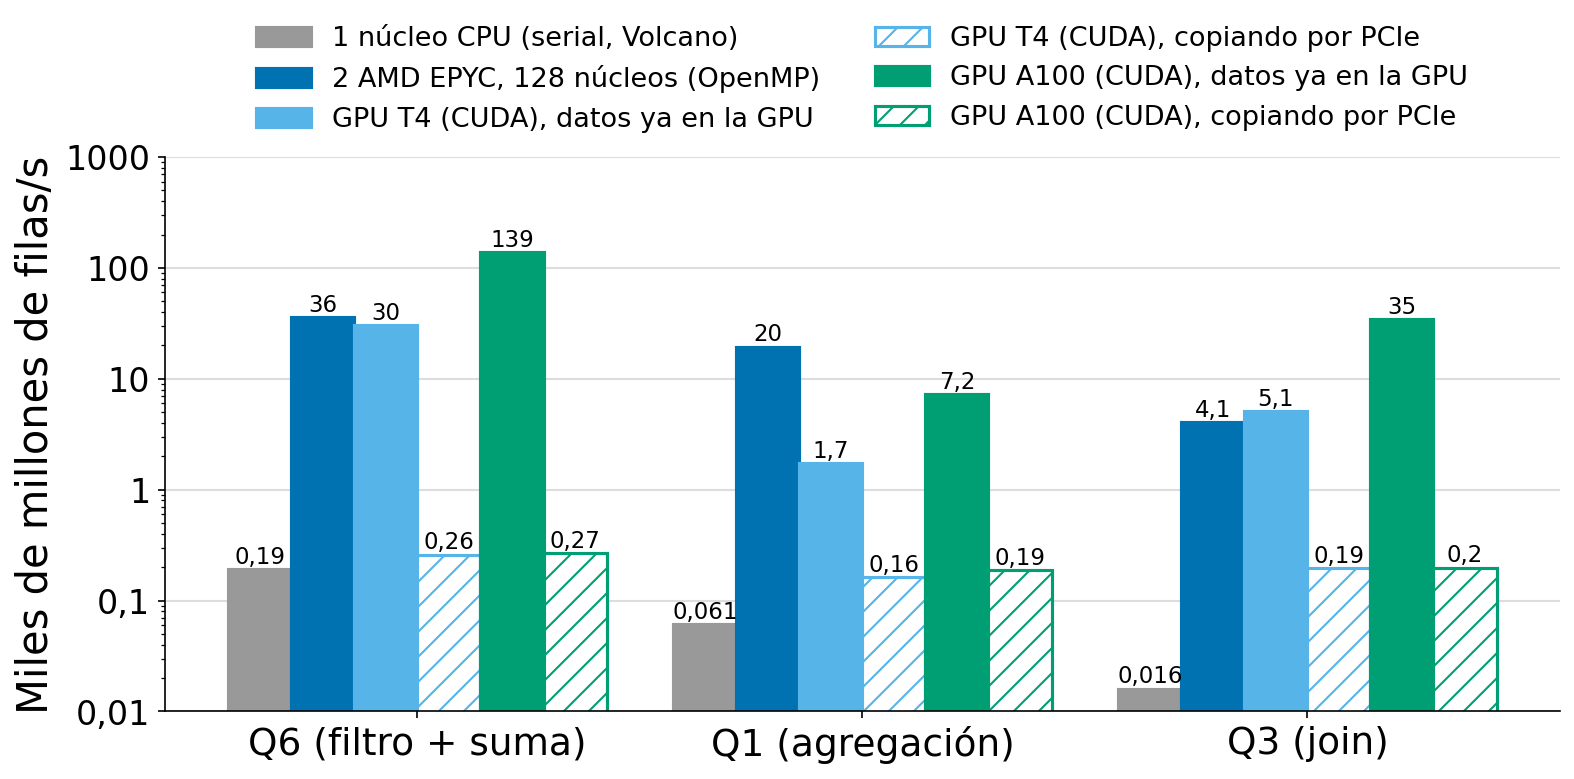
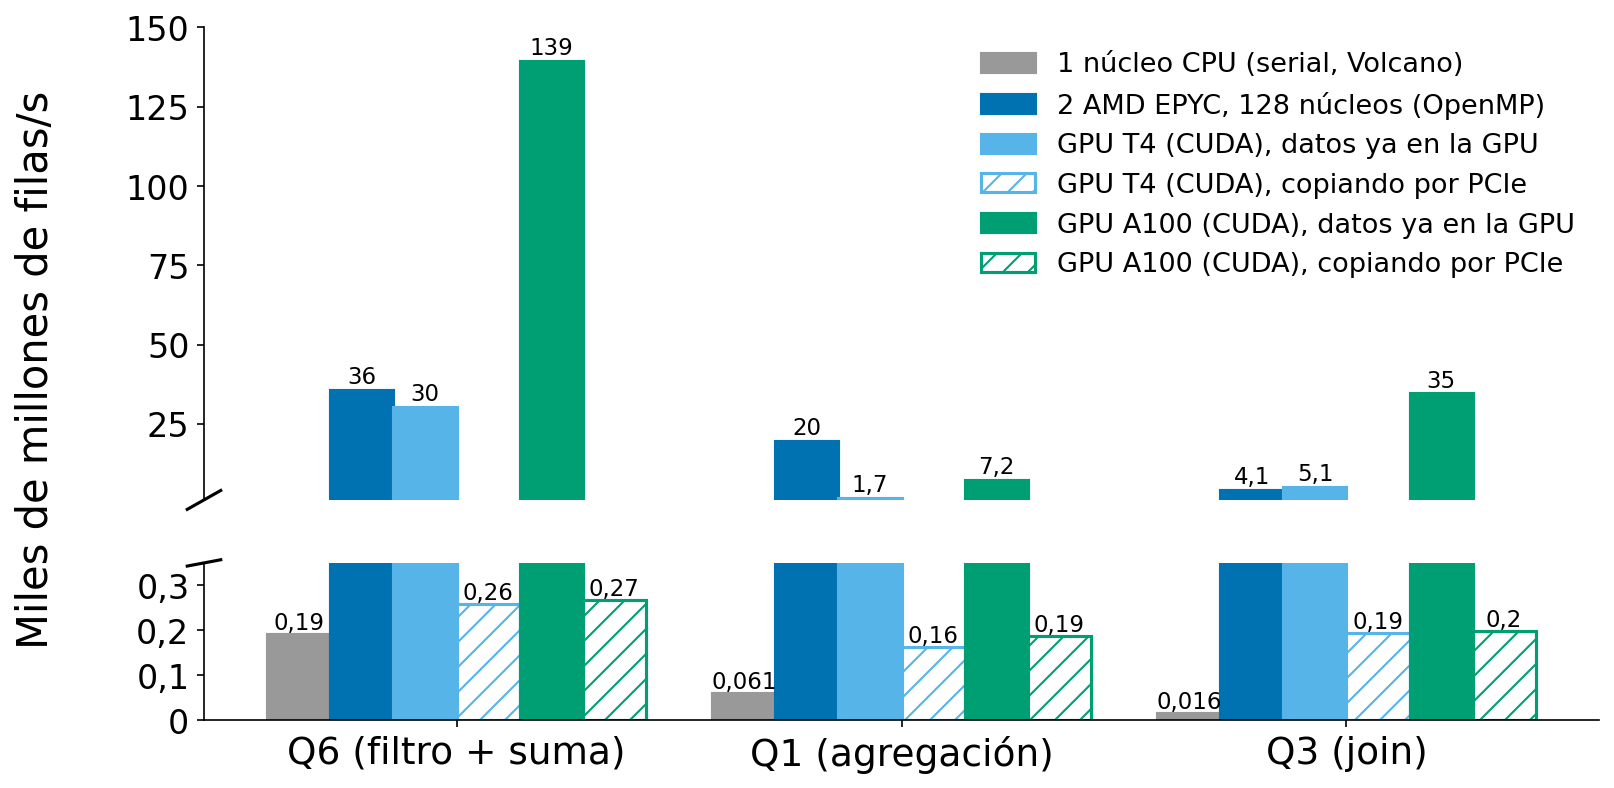
Figura central con eje partido: lineal arriba (CPU y GPU con datos cargados) y abajo (serial y copias)

diff --git a/scripts/graficas.py b/scripts/graficas.py
@@ -89,7 +89,10 @@ def central(m: dict, salida: Path):
                        lambda q, g=gpu: m[(g, "cuda", q, 1)][2], "10"))
         series.append((f"GPU {gpu} (CUDA), copiando por PCIe", color, "//",
                        lambda q, g=gpu: m[(g, "cuda", q, 1)][0], "10"))
-    fig, ax = plt.subplots(figsize=(12, 4.8))
+    # Eje partido, lineal en los dos tramos: con una sola escala lineal el serial y las copias por PCIe (< 0,3)
+    # quedan en el piso, y con escala logarítmica la ventaja de la A100 sobre la CPU se ve aplastada.
+    TRAMO_BAJO, TRAMO_ALTO = (0, 0.35), (1, 150)
+    fig, (arriba, abajo) = plt.subplots(2, 1, figsize=(12, 6), sharex=True, gridspec_kw={"height_ratios": [3, 1]})
     ancho = 0.85 / len(series)
     for i, (nombre, color, rayado, tiempo, sf) in enumerate(series):
         for j, q in enumerate(CONSULTAS):
@@ -98,19 +101,23 @@ def central(m: dict, salida: Path):
                 continue
             gfilas = FILAS_LINEITEM[sf] / (ms / 1000) / 1e9
             x = j + (i - (len(series) - 1) / 2) * ancho
-            ax.bar(x, gfilas, ancho, color="white" if rayado else color, edgecolor=color, hatch=rayado, lw=1.5,
-                   label=nombre if j == 0 else None)
-            ax.text(x, gfilas * 1.12, etiqueta(gfilas), ha="center", fontsize=11)
-    # Una marca con número en cada potencia de 10 de todo el rango, para leer las barras sin notación científica.
-    decadas = [0.01, 0.1, 1, 10, 100, 1000]
-    ax.set_yscale("log")
-    ax.set_ylim(decadas[0], decadas[-1])
-    ax.set_yticks(decadas, ["0,01", "0,1", "1", "10", "100", "1000"])
-    ax.grid(axis="y", color="#dddddd", lw=1)
-    ax.set_axisbelow(True)
-    ax.set_ylabel("Miles de millones de filas/s")
-    ax.set_xticks(range(len(CONSULTAS)), [NOMBRE[q] for q in CONSULTAS])
-    ax.legend(frameon=False, loc="lower center", bbox_to_anchor=(0.5, 1.0), ncol=2, fontsize=13)
+            for ax in (arriba, abajo):
+                ax.bar(x, gfilas, ancho, color="white" if rayado else color, edgecolor=color, hatch=rayado, lw=1.5,
+                       label=nombre if j == 0 and ax is arriba else None)
+            ax_texto, sube = (arriba, 2) if gfilas >= TRAMO_ALTO[0] else (abajo, 0.01)
+            ax_texto.text(x, gfilas + sube, etiqueta(gfilas), ha="center", fontsize=11)
+    arriba.set_ylim(*TRAMO_ALTO)
+    abajo.set_ylim(*TRAMO_BAJO)
+    abajo.set_yticks([0, 0.1, 0.2, 0.3], ["0", "0,1", "0,2", "0,3"])
+    arriba.spines["bottom"].set_visible(False)
+    abajo.spines["top"].set_visible(False)
+    arriba.tick_params(bottom=False)
+    # Marcas diagonales del corte en el eje y.
+    for ax, y in ((arriba, 0), (abajo, 1)):
+        ax.plot([-0.012, 0.012], [y - 0.02, y + 0.02], transform=ax.transAxes, color="black", lw=1.5, clip_on=False)
+    fig.supylabel("Miles de millones de filas/s", fontsize=20)
+    abajo.set_xticks(range(len(CONSULTAS)), [NOMBRE[q] for q in CONSULTAS])
+    arriba.legend(frameon=False, loc="upper right", fontsize=13)
     guardar(fig, salida, "central")
 
 
